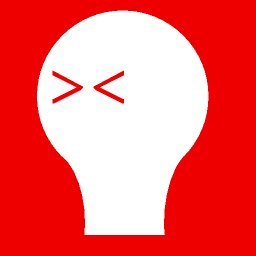
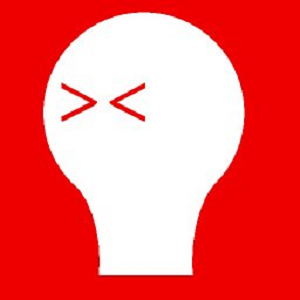
テクスチャのサイズを変更し、256アライメントに対応

diff --git a/directx_test/DirectXTest/DirectXTest/main.cpp b/directx_test/DirectXTest/DirectXTest/main.cpp
@@ -68,6 +68,11 @@ void GenerateTextureData()
 	result = LoadFromWICFile(L"Resource/textest.png", WIC_FLAGS_NONE, &textureMetaData, textureData);
 }
 
+size_t AlignmentedSize(size_t size, size_t alignment)
+{
+	return size + alignment - size % alignment;
+}
+
 void DxInitialize(HWND hwnd)
 {
 	ID3D12Debug* debugLayer = nullptr;
@@ -203,7 +208,8 @@ void DxInitialize(HWND hwnd)
 	GenerateTextureData();
 	auto image = textureData.GetImage(0, 0, 0);
 
-	resourceDesc.Width = image->slicePitch;
+	auto alignmentedSize = AlignmentedSize(image->rowPitch, D3D12_TEXTURE_DATA_PITCH_ALIGNMENT);
+	resourceDesc.Width = alignmentedSize * image->height;
 
 	result = device->CreateCommittedResource(&heapProp, D3D12_HEAP_FLAG_NONE, &resourceDesc, D3D12_RESOURCE_STATE_GENERIC_READ, nullptr, IID_PPV_ARGS(&uploadBuffer));
 
@@ -230,7 +236,9 @@ void DxInitialize(HWND hwnd)
 	
 	uint8_t* imageMap = nullptr;
 	result = uploadBuffer->Map(0, nullptr, (void**)&imageMap);
-	copy_n(image->pixels, image->slicePitch, imageMap);
+	for (int y = 0; y < image->height; ++y) {
+		copy_n(image->pixels + y * image->rowPitch, alignmentedSize, imageMap + y * alignmentedSize);
+	}
 	uploadBuffer->Unmap(0, nullptr);
 
 	heapDesc = {};
@@ -419,7 +427,7 @@ void DxUpdate()
 	src.PlacedFootprint.Footprint.Width = textureMetaData.width;
 	src.PlacedFootprint.Footprint.Height = textureMetaData.height;
 	src.PlacedFootprint.Footprint.Depth = textureMetaData.depth;
-	src.PlacedFootprint.Footprint.RowPitch = image->rowPitch;
+	src.PlacedFootprint.Footprint.RowPitch = AlignmentedSize(image->rowPitch, D3D12_TEXTURE_DATA_PITCH_ALIGNMENT);
 	src.PlacedFootprint.Footprint.Format = image->format;
 
 	D3D12_TEXTURE_COPY_LOCATION dst = {};
